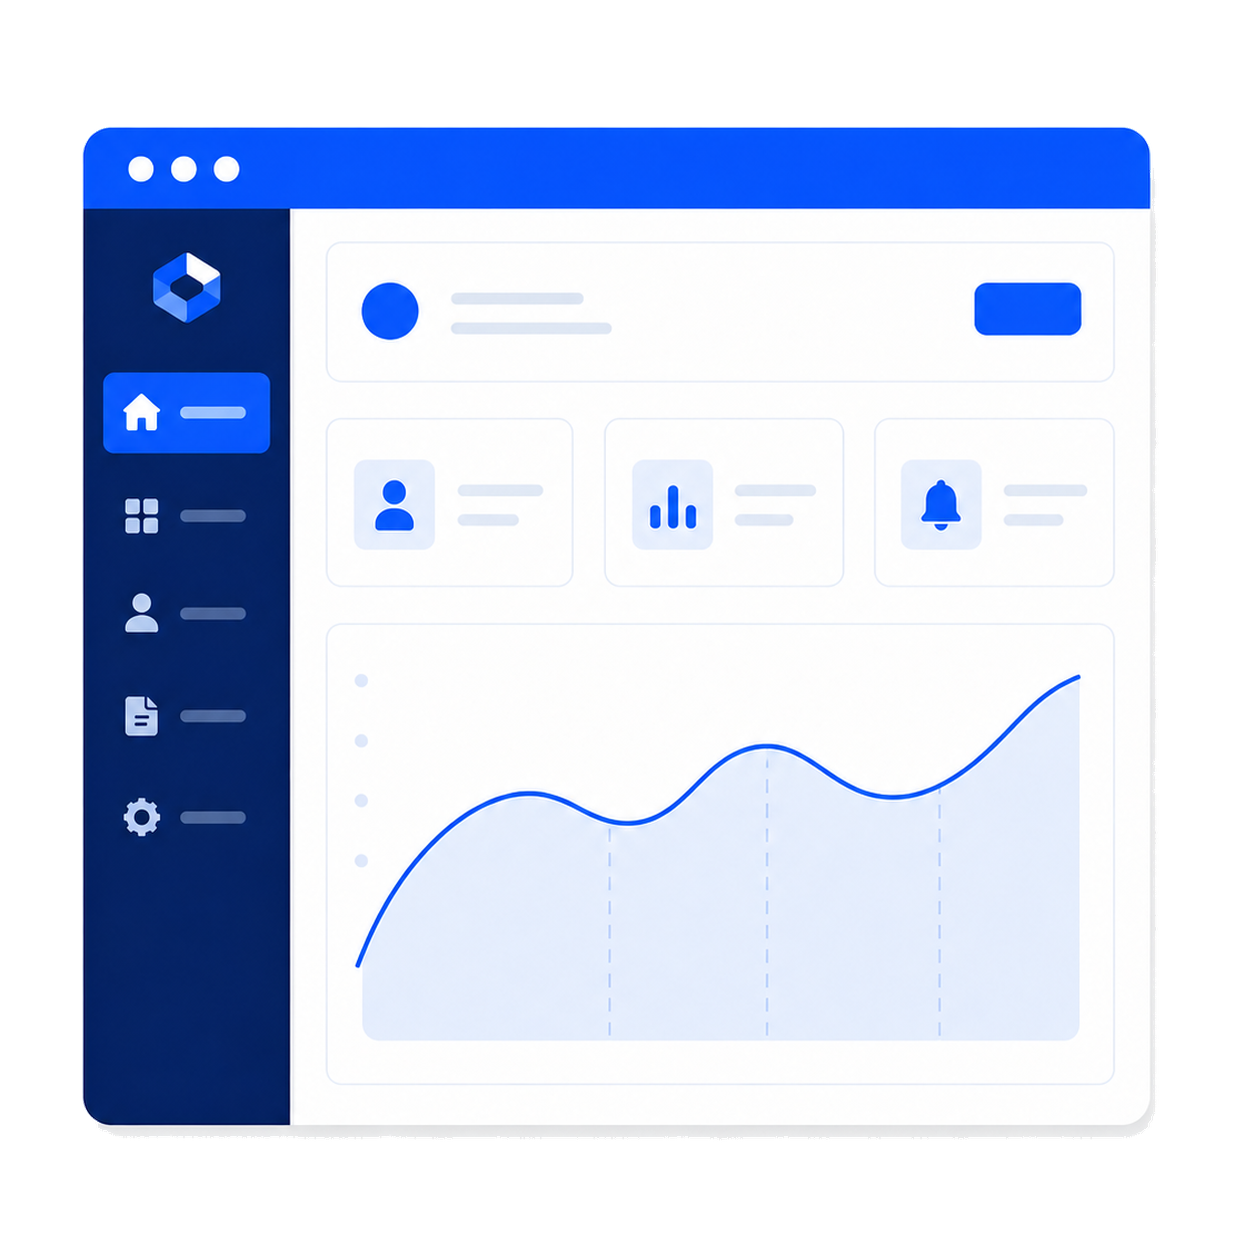
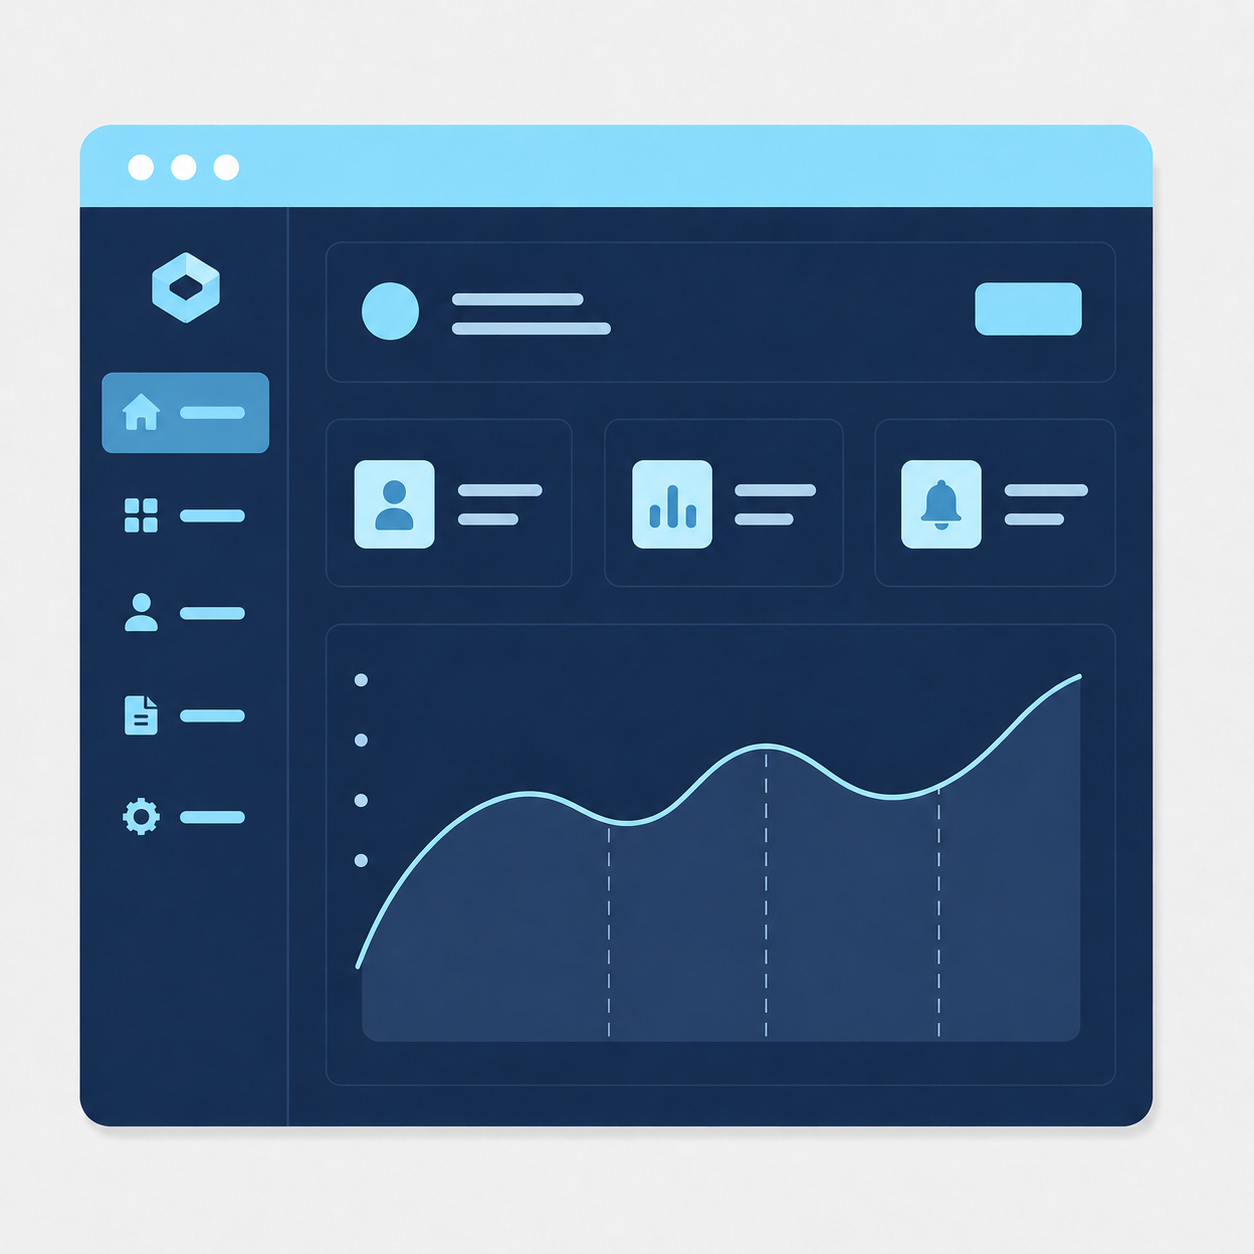
update

diff --git a/src/components/sections/WebSolutionsSection.jsx b/src/components/sections/WebSolutionsSection.jsx
@@ -194,17 +194,17 @@ function SolutionBadge({ card, className = '' }) {
   return (
     <span
       className={cx(
-        'pointer-events-none absolute z-20 inline-flex max-w-[calc(100%_-_2.5rem)] items-center overflow-hidden rounded-[1rem] bg-[#dbe4ef] text-[#1a2d4e] sm:rounded-[1.2rem]',
-        'shadow-[inset_0_0_0_0.5px_rgba(26,45,78,0.13)]',
+        'pointer-events-none absolute z-20 inline-flex max-w-[calc(100%_-_2.5rem)] items-center overflow-hidden rounded-[1rem] bg-[#203658] text-[#95e3ff] sm:rounded-[1.2rem]',
+        'shadow-[inset_0_0_0_0.5px_rgba(149,227,255,0.18)]',
         'sm:max-w-[calc(100%_-_3.5rem)] md:max-w-[calc(100%_-_4rem)]',
         className
       )}
     >
-      <span className="flex h-7 w-7 shrink-0 items-center justify-center rounded-[0.9rem] bg-[#dbe4ef] sm:h-9 sm:w-9 sm:rounded-[1.1rem]">
+      <span className="flex h-7 w-7 shrink-0 items-center justify-center rounded-[0.9rem] bg-[#203658] sm:h-9 sm:w-9 sm:rounded-[1.1rem]">
         {isWordpress ? (
-          <WordpressMaskedIcon className="h-4 w-4 bg-[#1a2d4e] sm:h-5 sm:w-5" />
+          <WordpressMaskedIcon className="h-4 w-4 bg-[#95e3ff] sm:h-5 sm:w-5" />
         ) : (
-          <span className="material-symbols-outlined fill text-[18px] leading-none text-[#1a2d4e] sm:text-[22px]">
+          <span className="material-symbols-outlined fill text-[18px] leading-none text-[#95e3ff] sm:text-[22px]">
             {card.icon}
           </span>
         )}

diff --git a/src/styles/cards/solution-card.css b/src/styles/cards/solution-card.css
@@ -25,9 +25,9 @@
 .section-grid-bg--web .solution-card-surface:hover,
 .section-grid-bg--web .solution-card-surface.solution-card-surface--touch-selected {
   --tw-translate-y: 0px;
-  border-color: #254a70;
+  border-color: #203658;
   box-shadow:
-    inset 0 0 0 1.5px rgba(37, 74, 112, 0.92),
+    inset 0 0 0 1.5px rgba(32, 54, 88, 0.92),
     0 18px 34px rgba(15, 34, 52, 0.13);
   transform: translateZ(0);
 }

diff --git a/src/styles/sections/section-grid.css b/src/styles/sections/section-grid.css
@@ -229,9 +229,9 @@
 
 .section-grid-bg--web {
   --section-bg: #f7f9fb;
-  --section-grid-color: rgba(37, 74, 112, 0.045);
-  --section-grid-burst-rgb: 37, 74, 112;
-  --section-grid-highlight-color: #254a70;
+  --section-grid-color: rgba(32, 54, 88, 0.045);
+  --section-grid-burst-rgb: 32, 54, 88;
+  --section-grid-highlight-color: #203658;
 }
 
 .section-grid-bg--software {
